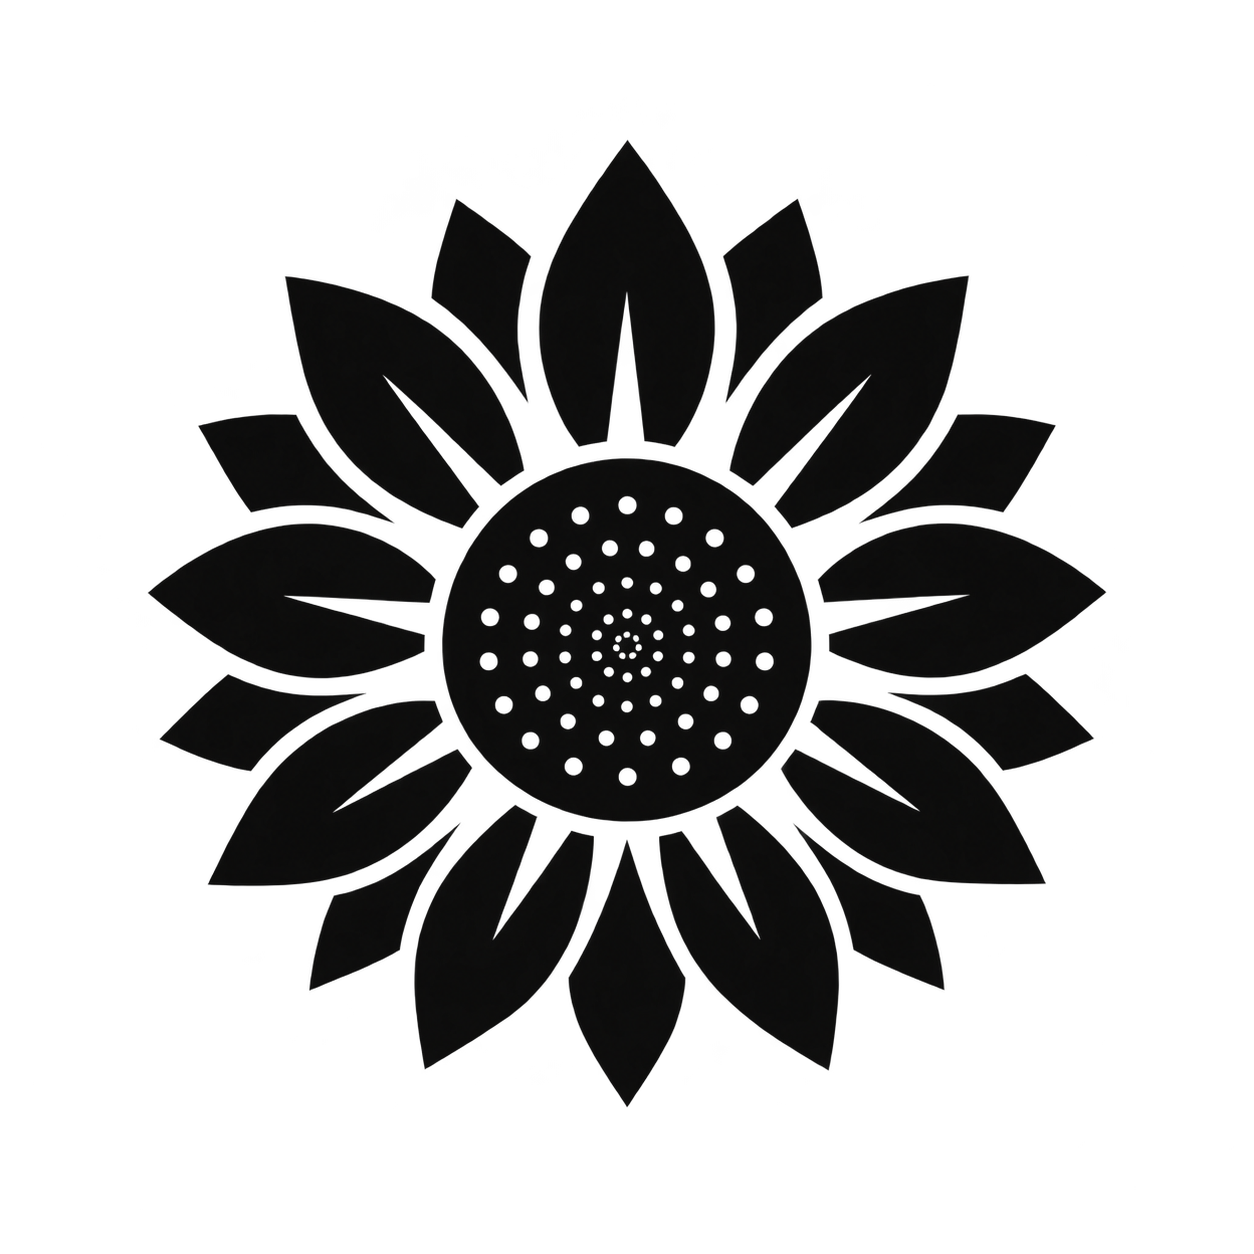
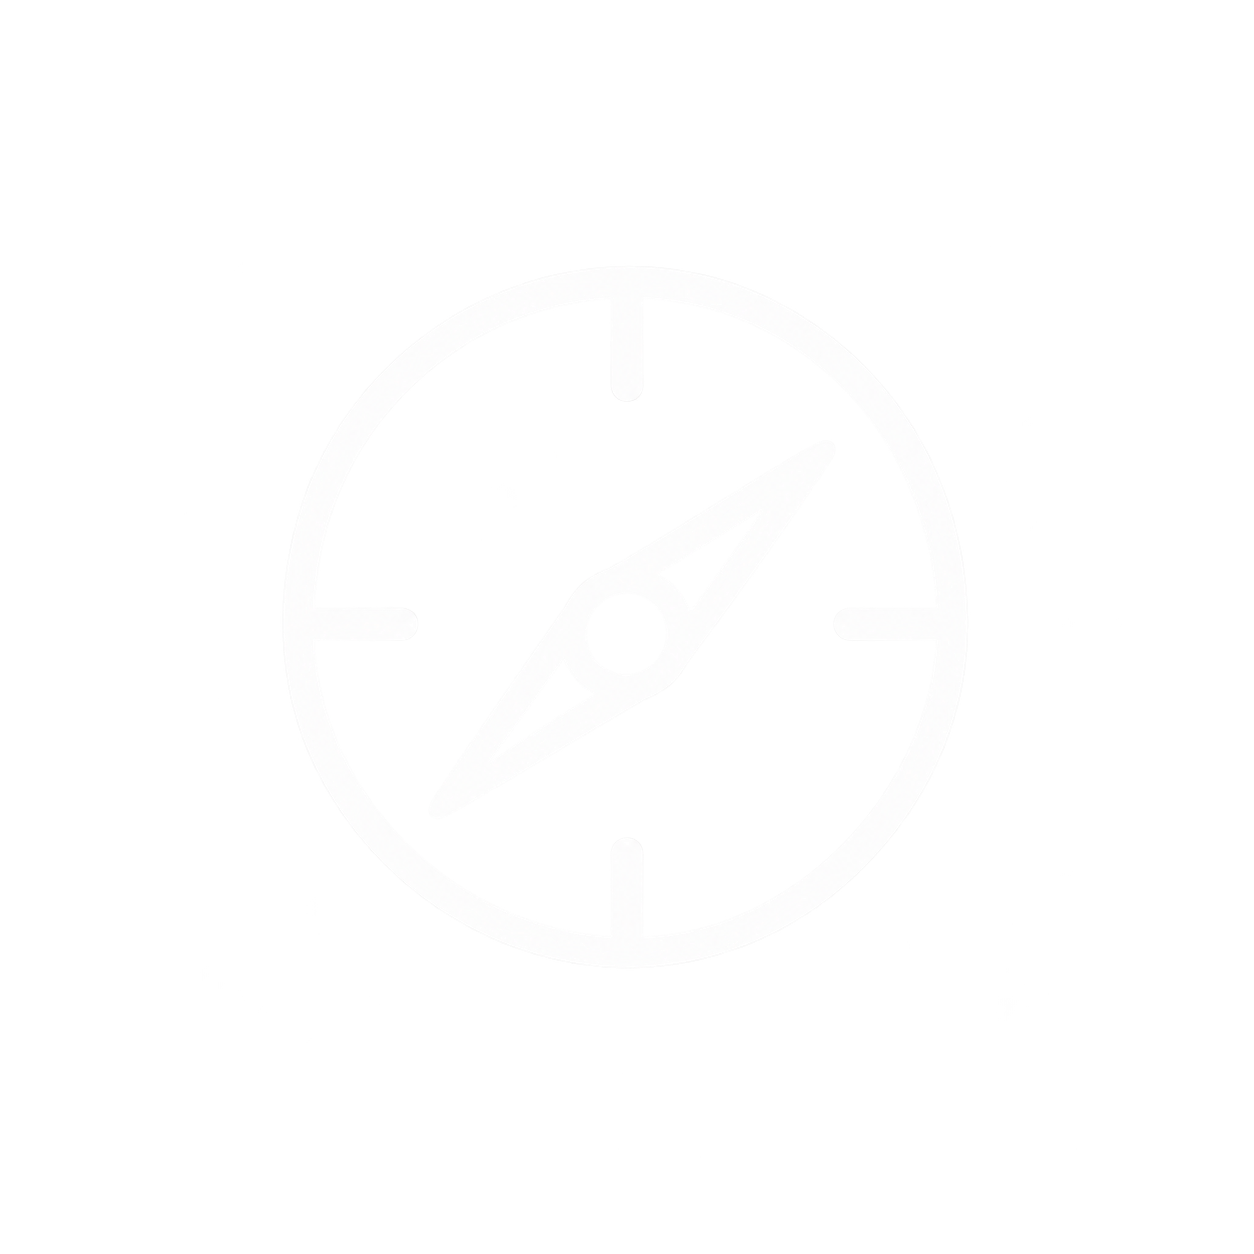
feat(ui): replace sunflower with animated minimalist spinning compass on desktop rail

Changed region(s): [[0.1244, 0.0933, 0.9019, 0.8708]]

diff --git a/styles.css b/styles.css
@@ -116,7 +116,7 @@ html.lenis, html.lenis body { height: auto; }
   }
 
   .side-rail-flower-link:hover {
-    transform: rotate(12deg) scale(1.1);
+    transform: scale(1.12);
   }
 
   .side-rail-flower-img {
@@ -125,6 +125,56 @@ html.lenis, html.lenis body { height: auto; }
     display: block;
     object-fit: contain;
     transition: filter 0.28s ease;
+  }
+
+  /* Interactive Minimalist Compass */
+  .side-rail-compass {
+    position: relative;
+    width: 40px;
+    height: 40px;
+    display: flex;
+    align-items: center;
+    justify-content: center;
+    transition: filter 0.28s ease;
+  }
+
+  .side-rail-compass .compass-circle {
+    position: absolute;
+    inset: 0;
+    width: 100%;
+    height: 100%;
+    object-fit: contain;
+    display: block;
+    pointer-events: none;
+    user-select: none;
+  }
+
+  .side-rail-compass .compass-needle {
+    position: absolute;
+    inset: 0;
+    width: 100%;
+    height: 100%;
+    object-fit: contain;
+    display: block;
+    pointer-events: none;
+    user-select: none;
+    transform-origin: 50.31% 49.14%;
+    animation: compassNeedleSpin 14s linear infinite;
+    will-change: transform;
+    transition: filter 0.28s ease;
+  }
+
+  .side-rail-flower-link:hover .compass-needle {
+    animation-duration: 3s;
+  }
+
+  @keyframes compassNeedleSpin {
+    from {
+      transform: rotate(0deg);
+    }
+    to {
+      transform: rotate(360deg);
+    }
   }
 
   /* Vertical stem line between flower and navigation icons */
@@ -296,7 +346,9 @@ html.lenis, html.lenis body { height: auto; }
   }
 
   .desktop-side-rail.is-on-dark .side-rail-flower-img,
-  .desktop-side-rail:not(.is-on-light) .side-rail-flower-img {
+  .desktop-side-rail:not(.is-on-light) .side-rail-flower-img,
+  .desktop-side-rail.is-on-dark .side-rail-compass,
+  .desktop-side-rail:not(.is-on-light) .side-rail-compass {
     filter: brightness(0) invert(1);
   }
 
@@ -323,7 +375,8 @@ html.lenis, html.lenis body { height: auto; }
     color: #08060d;
   }
 
-  .desktop-side-rail.is-on-light .side-rail-flower-img {
+  .desktop-side-rail.is-on-light .side-rail-flower-img,
+  .desktop-side-rail.is-on-light .side-rail-compass {
     filter: brightness(0);
   }
 

diff --git a/assets/index-CGH_cqr6.css b/assets/index-CGH_cqr6.css
@@ -102,7 +102,7 @@
   }
 
   .side-rail-flower-link:hover {
-    transform: rotate(12deg) scale(1.1);
+    transform: scale(1.12);
   }
 
   .side-rail-flower-img {
@@ -111,6 +111,56 @@
     display: block;
     object-fit: contain;
     transition: filter 0.28s ease;
+  }
+
+  /* Interactive Minimalist Compass */
+  .side-rail-compass {
+    position: relative;
+    width: 40px;
+    height: 40px;
+    display: flex;
+    align-items: center;
+    justify-content: center;
+    transition: filter 0.28s ease;
+  }
+
+  .side-rail-compass .compass-circle {
+    position: absolute;
+    inset: 0;
+    width: 100%;
+    height: 100%;
+    object-fit: contain;
+    display: block;
+    pointer-events: none;
+    user-select: none;
+  }
+
+  .side-rail-compass .compass-needle {
+    position: absolute;
+    inset: 0;
+    width: 100%;
+    height: 100%;
+    object-fit: contain;
+    display: block;
+    pointer-events: none;
+    user-select: none;
+    transform-origin: 50.31% 49.14%;
+    animation: compassNeedleSpin 14s linear infinite;
+    will-change: transform;
+    transition: filter 0.28s ease;
+  }
+
+  .side-rail-flower-link:hover .compass-needle {
+    animation-duration: 3s;
+  }
+
+  @keyframes compassNeedleSpin {
+    from {
+      transform: rotate(0deg);
+    }
+    to {
+      transform: rotate(360deg);
+    }
   }
 
   /* Vertical stem line between flower and navigation icons */
@@ -282,7 +332,9 @@
   }
 
   .desktop-side-rail.is-on-dark .side-rail-flower-img,
-  .desktop-side-rail:not(.is-on-light) .side-rail-flower-img {
+  .desktop-side-rail:not(.is-on-light) .side-rail-flower-img,
+  .desktop-side-rail.is-on-dark .side-rail-compass,
+  .desktop-side-rail:not(.is-on-light) .side-rail-compass {
     filter: brightness(0) invert(1);
   }
 
@@ -309,7 +361,8 @@
     color: #08060d;
   }
 
-  .desktop-side-rail.is-on-light .side-rail-flower-img {
+  .desktop-side-rail.is-on-light .side-rail-flower-img,
+  .desktop-side-rail.is-on-light .side-rail-compass {
     filter: brightness(0);
   }
 

diff --git a/index.html b/index.html
@@ -49,18 +49,21 @@
     </script>
     <title>Md Shamsuzzaman (Rafi) — Software Engineer</title>
     <script type="module" crossorigin src="./assets/index-X50Ikt_1.js?v=11"></script>
-    <link rel="stylesheet" crossorigin href="./assets/index-CGH_cqr6.css?v=11">
-    <link rel="stylesheet" href="./styles.css?v=11">
+    <link rel="stylesheet" crossorigin href="./assets/index-CGH_cqr6.css?v=12">
+    <link rel="stylesheet" href="./styles.css?v=12">
   </head>
   <body>
     <div id="root"></div>
 
     <!-- Desktop Vertical Side Rail (> 1024px) -->
     <aside class="desktop-side-rail" id="desktop-side-rail" aria-label="Desktop Side Navigation">
-      <!-- 1. Top Sunflower Anchor & Navigation -->
+      <!-- 1. Top Compass Anchor & Navigation -->
       <div class="side-rail-top-group">
-        <a href="#center" class="side-rail-flower-link" aria-label="Md Shamsuzzaman - Home">
-          <img src="./assets/icon.png" class="side-rail-flower-img" alt="Sunflower" />
+        <a href="#center" class="side-rail-flower-link side-rail-compass-link" aria-label="Md Shamsuzzaman - Back to top">
+          <div class="side-rail-compass" aria-hidden="true">
+            <img src="./assets/Minimalist Compass Circle Icon.png" class="compass-circle" alt="" />
+            <img src="./assets/Minimalist White Compass Needle.png" class="compass-needle" alt="" />
+          </div>
           <span class="side-rail-tooltip">Back to top</span>
         </a>
 
